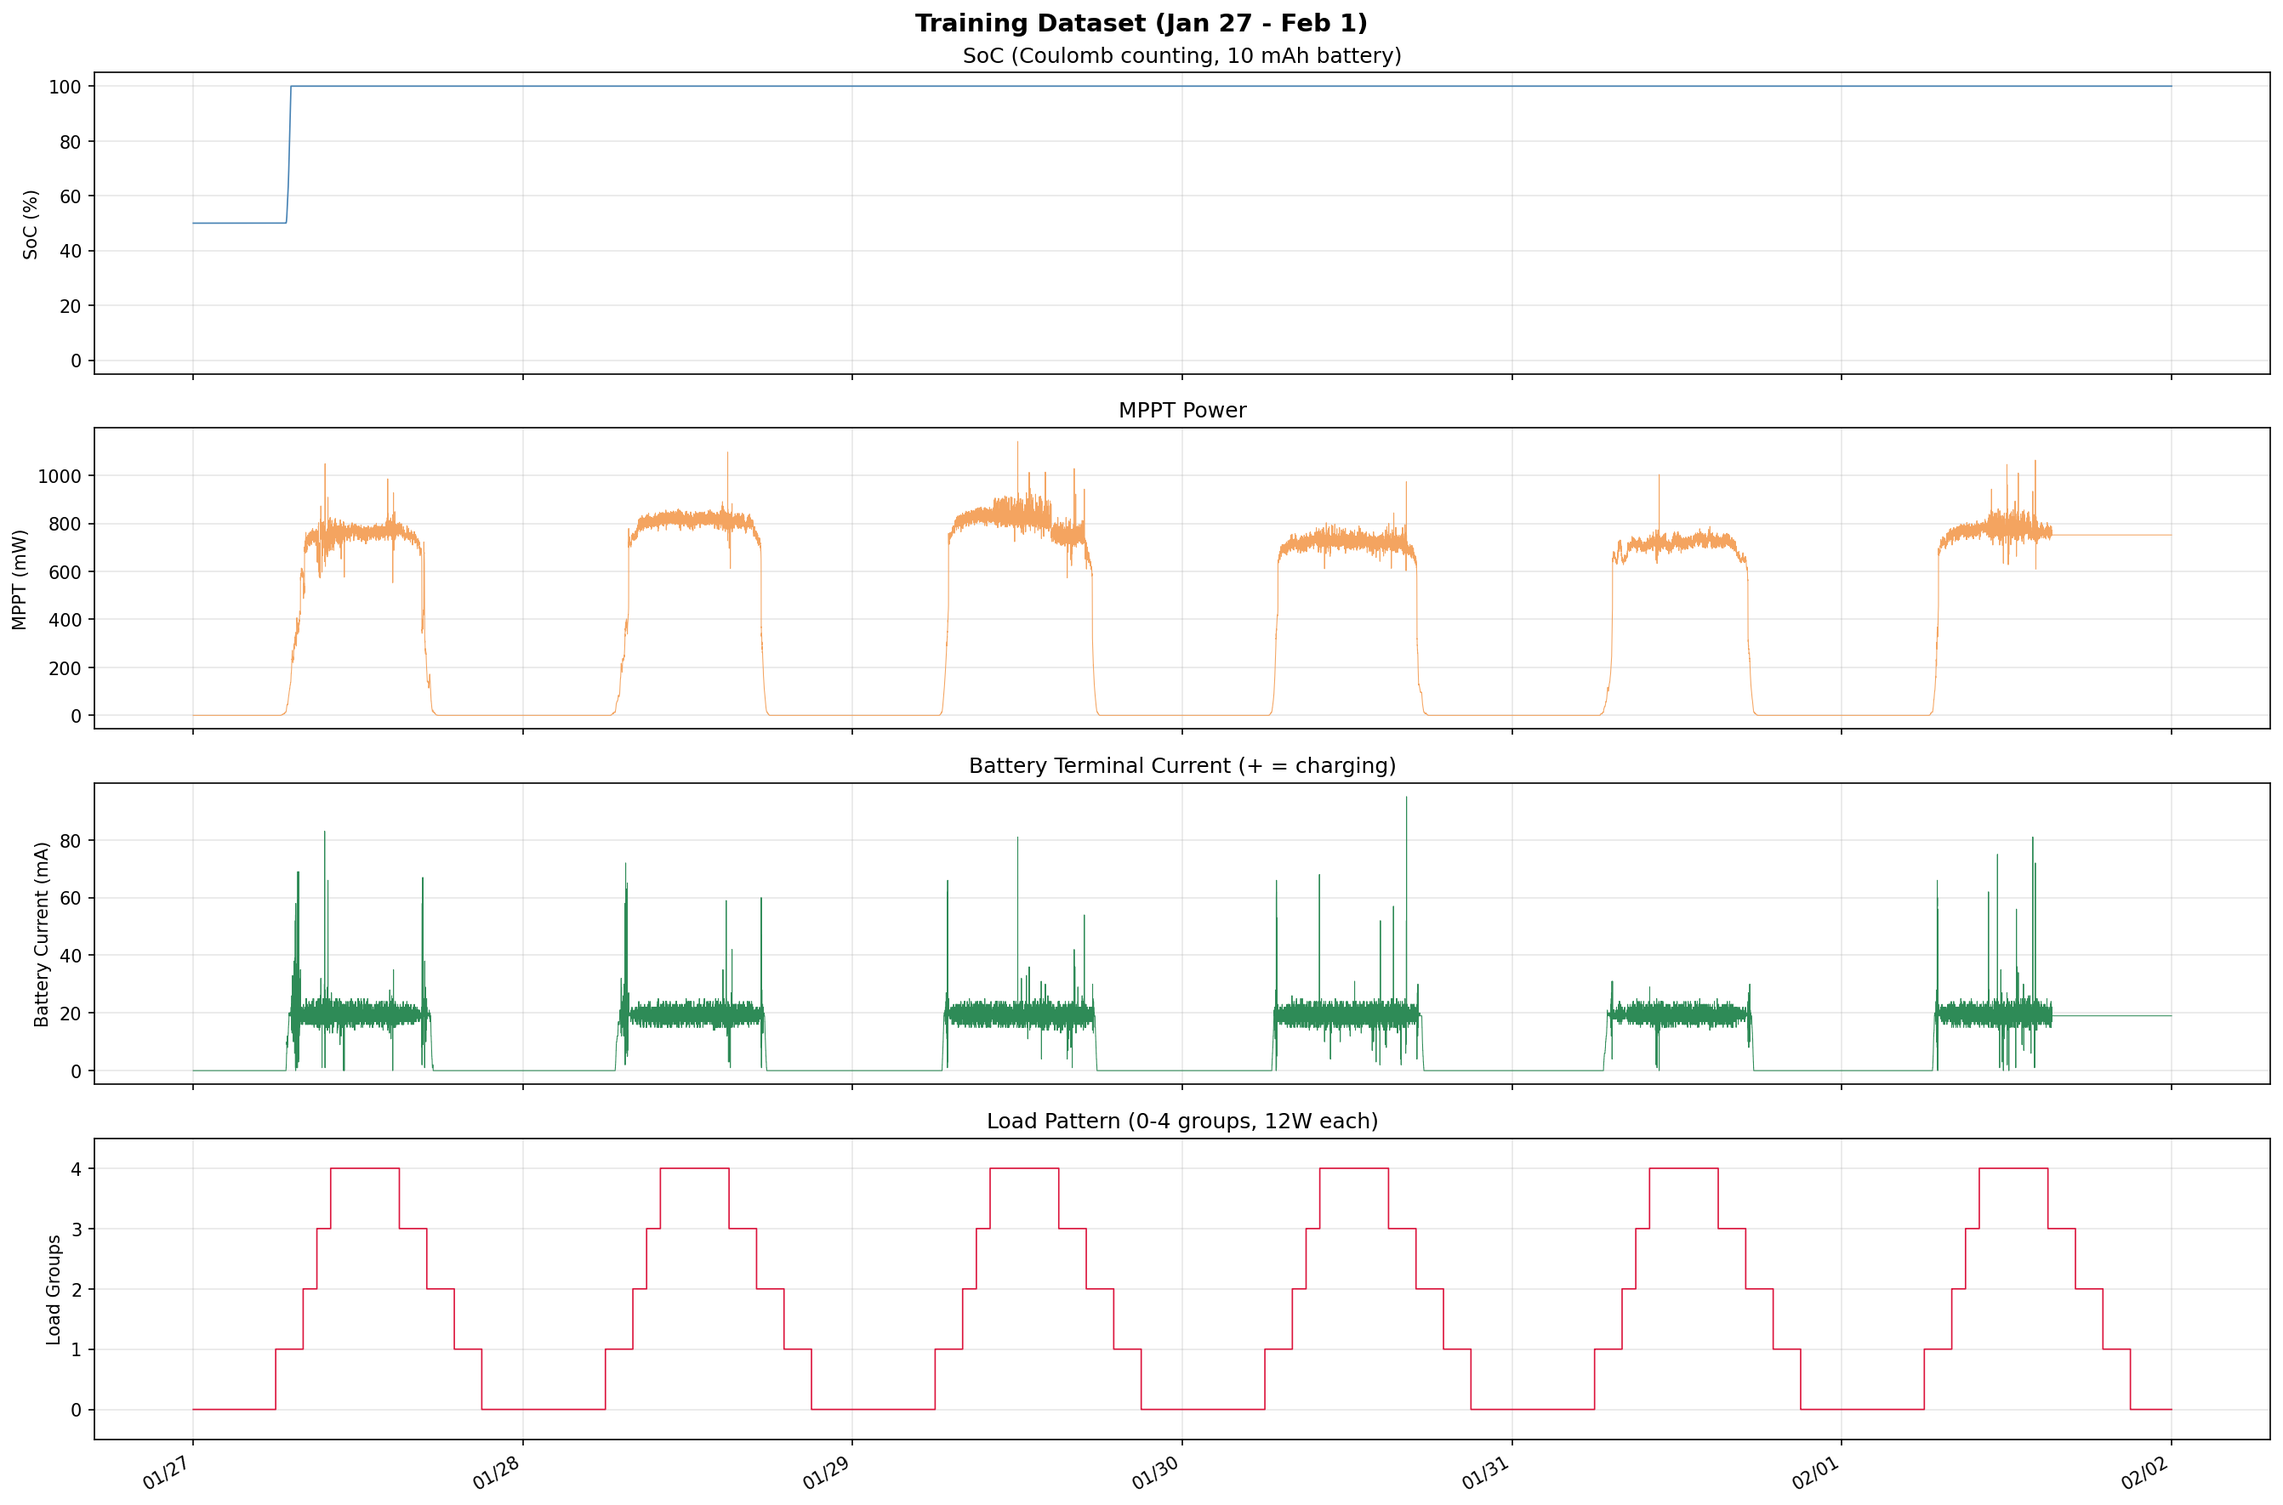
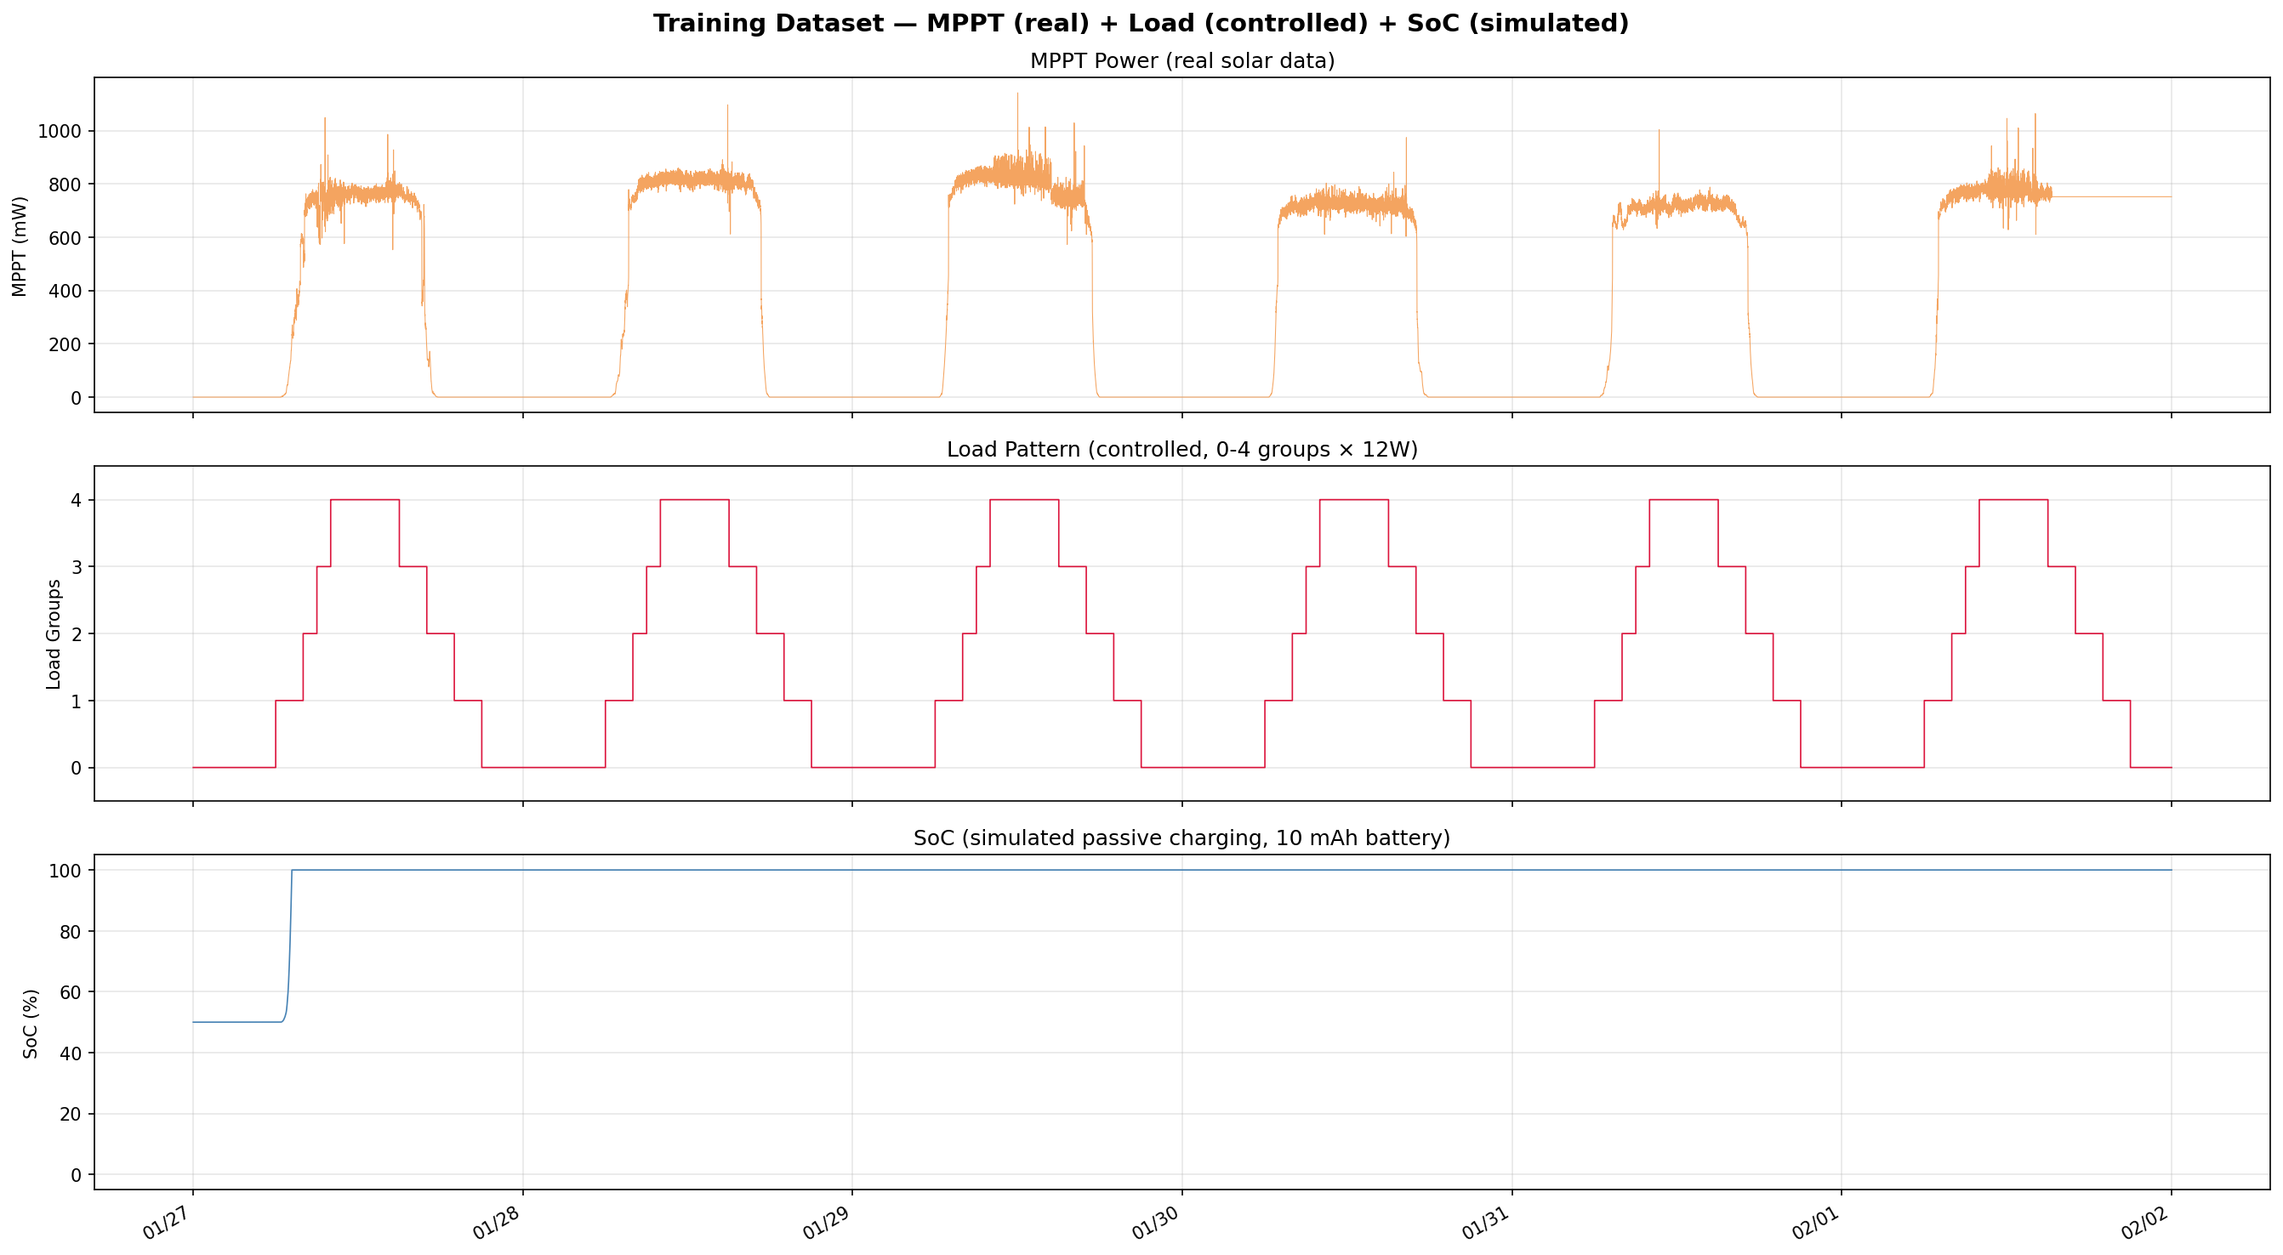
refactor: dataset only uses MPPT/solar from CSV, battery is fully simulated
- Removed dependency on CSV battery columns (current_a, voltage_v, soc_percent)
  as those belong to a different battery spec
- SoC computed via simulation (passive MPPT charging model), not from CSV current
- Clarified: MPPT = real data, Load = controlled, Battery/SoC/SoH = simulated
- Added flow_rate documentation in p302_real_hw.py (control variable, 0-100%)
- Cleaned up plots to show 3 panels: MPPT(real) + Load(controlled) + SoC(sim)

diff --git a/data/scripts/build_training_dataset.py b/data/scripts/build_training_dataset.py
@@ -1,22 +1,25 @@
 """
 build_training_dataset.py
 =========================
-從 data/raw/ 選取最佳 7 天資料，加上：
-  1. SoC 庫倫計數估算（10 mAh, 20 mA, 8.5V/5.6V）
-  2. 負載模式注入（4 組 × 12W @5V）
-  3. 15 分鐘聚合
-  4. 輸出完整 training CSV
+從 data/raw/ 選取最佳連續天的 MPPT/Solar 資料，加上：
+  1. 負載模式注入（4 組 × 12W @5V，由我們控制）
+  2. 15 分鐘聚合
 
-電池規格（Zinc-Air Battery Lab Scale）：
+重要：
+  ・CSV 中只取 MPPT（太陽能）數據 — 這是真實的可再生能源時間序列
+  ・CSV 中的電池欄位（soc_percent, voltage_v, current_a）為不同規格的電池，不使用
+  ・SoC / SoH / Flow Rate 全由模擬計算，不依賴 CSV 電池數據
+  ・負載由我們透過 load_pattern 控制（0-4 組 × 12W）
+
+電池規格（目標鋅空氣電池，模擬用）：
   - 額定容量      : 10 mAh
   - 充電電流      : 20 mA
   - 充電電壓      : 8.5 V
   - 放電電壓      : 5.6 V
-  - 充放電功率    : 充 0.17 W / 放 0.112 W
 
-負載規格：
-  - 4 組電子負載，每組 12W @5V（2.4A per group）
-  - 依時段開 0~4 組
+RL 控制輸出：
+  - 功率 (power_mW)     : 充放電功率
+  - 流速 (flow_percent) : 電解液流速（0-100%）
 
 輸出 → data/processed/training_7day_15min.csv
 """
@@ -104,12 +107,12 @@ def normalize_columns(df: pd.DataFrame) -> pd.DataFrame:
 # ═══════════════════════════════════════════════════════════════
 def load_and_select(raw_dir: Path) -> pd.DataFrame:
     """
-    載入 raw CSV 並選取電池活躍 + 完整度高的日期。
+    載入 raw CSV，只看 MPPT/Solar 品質選日期（忽略電池欄位）。
 
     選取條件：
       1. 完整度 ≥ 90%（約 24h 連續紀錄）
-      2. 電池實際充電（白天 current_a > 5 mA）
-      3. 優先選 Jan 27–Feb 1（6 天連續有效資料）
+      2. 白天 MPPT 有明確訊號（mppt_p 非全零）
+      3. 取最佳連續天
     """
     files = sorted(raw_dir.glob('collected_data_*.csv'))
     daily = {}
@@ -123,32 +126,52 @@ def load_and_select(raw_dir: Path) -> pd.DataFrame:
             expected = 24 * 3600 / dt_med
             completeness = min(len(df) / expected, 1.0)
             dur_h = (df['timestamp'].max() - df['timestamp'].min()).total_seconds() / 3600
-            # 白天電池電流判斷
+            # 白天 MPPT 品質
             mask_d = (df['timestamp'].dt.hour >= 8) & (df['timestamp'].dt.hour <= 16)
-            day_current = df.loc[mask_d, 'current_a'].mean() if mask_d.sum() > 0 else 0.0
+            mppt_day_mean = df.loc[mask_d, 'mppt_p'].mean() if mask_d.sum() > 0 else 0.0
+            mppt_day_max  = df.loc[mask_d, 'mppt_p'].max()  if mask_d.sum() > 0 else 0.0
             daily[date] = {
                 'file': f, 'df': df, 'n_rows': len(df),
                 'completeness': completeness, 'duration_h': dur_h,
-                'day_current_a': day_current,
+                'mppt_day_mean_W': mppt_day_mean,
+                'mppt_day_max_W': mppt_day_max,
             }
-            batt = 'YES' if day_current > 0.005 else 'no'
+            mppt_ok = 'OK' if mppt_day_mean > 0.01 else 'low'
             print(f"  {f.name:45s}  {len(df):>5d} rows  {dur_h:5.1f}h  "
-                  f"完整度 {completeness*100:5.1f}%  batt:{batt}({day_current*1000:.1f}mA)")
+                  f"完整度 {completeness*100:5.1f}%  MPPT:{mppt_ok}({mppt_day_mean*1000:.0f}mW)")
         except Exception as e:
             print(f"  ERR {f.name}: {e}")
 
-    # 選取 Jan 27 – Feb 1（6 天連續、電池活躍、完整度 > 95%）
-    from datetime import date as ddate
-    target_dates = [
-        ddate(2026, 1, 27), ddate(2026, 1, 28), ddate(2026, 1, 29),
-        ddate(2026, 1, 30), ddate(2026, 1, 31), ddate(2026, 2, 1),
-    ]
-    selected = [d for d in target_dates if d in daily]
-    print(f"\n  選定 {len(selected)} 天（Jan 27–Feb 1，電池活躍）：")
+    # 找出所有完整度 >= 90% 且 MPPT 有訊號的日期
+    from datetime import date as ddate, timedelta
+    good_dates = sorted([d for d, v in daily.items()
+                         if v['completeness'] >= 0.90 and v['mppt_day_mean_W'] > 0.01])
+    print(f"\n  品質合格日期（完整度≥90% & MPPT>10mW）：{good_dates}")
+
+    # 找最長連續段
+    if good_dates:
+        best_run = [good_dates[0]]
+        current_run = [good_dates[0]]
+        for i in range(1, len(good_dates)):
+            if (good_dates[i] - good_dates[i-1]).days == 1:
+                current_run.append(good_dates[i])
+            else:
+                if len(current_run) > len(best_run):
+                    best_run = current_run
+                current_run = [good_dates[i]]
+        if len(current_run) > len(best_run):
+            best_run = current_run
+        selected = best_run
+    else:
+        # fallback: 取完整度最高的 6 天
+        ranked = sorted(daily.items(), key=lambda x: x[1]['completeness'], reverse=True)
+        selected = sorted([d for d, _ in ranked[:6]])
+
+    print(f"\n  選定 {len(selected)} 天（最長連續段）：")
     for d in selected:
         v = daily[d]
         print(f"    {d}  完整度 {v['completeness']*100:5.1f}%  "
-              f"batt_current {v['day_current_a']*1000:.1f}mA")
+              f"MPPT day avg {v['mppt_day_mean_W']*1000:.0f}mW  max {v['mppt_day_max_W']*1000:.0f}mW")
 
     frames = [daily[d]['df'] for d in selected]
     df_all = pd.concat(frames, ignore_index=True).sort_values('timestamp').reset_index(drop=True)
@@ -159,44 +182,45 @@ def load_and_select(raw_dir: Path) -> pd.DataFrame:
 # ═══════════════════════════════════════════════════════════════
 # SoC 庫倫計數
 # ═══════════════════════════════════════════════════════════════
-def compute_soc_coulomb(df: pd.DataFrame) -> np.ndarray:
+def simulate_soc(df: pd.DataFrame) -> np.ndarray:
     """
-    從 current_a（電池端實際電流）做庫倫計數推算 SoC。
+    模擬 SoC：基於 MPPT 功率和負載功率的能量平衡。
 
-    根據實測：
-      - 白天 current_a ≈ +19~20 mA（充電，符合額定 20 mA）
-      - 夜間 current_a ≈ 0（閒置）
-      - 負載不直接從電池放電（另有供電路徑）
+    邏輯（簡化模擬，非 CSV 電池數據）：
+      - 充電功率 = min(mppt_p, 額定充電功率 0.17W)
+      - 放電功率 = 0（目前無真實放電控制，由 RL agent 決定）
+      - 淨充電能量 = (P_charge × dt) × efficiency / capacity
 
-    SoC(t+1) = SoC(t) + (current_a × dt) / Capacity
-    正值 = 充電，負值 = 放電
+    注意：真實 SoC 計算會由 RL env 內部處理。
+    此處只提供「被動充電」的 SoC 參考序列作為 dataset 欄位。
     """
-    cap_ah = BATTERY_CAPACITY_MAH / 1000.0  # 0.01 Ah
+    cap_wh = BATTERY_CAPACITY_WH  # ≈ 0.0705 Wh
+    max_charge_w = BATTERY_CHARGE_I_MA * BATTERY_CHARGE_V / 1000  # 0.17 W
+    efficiency = 0.85
 
     soc = np.zeros(len(df), dtype=float)
-    soc[0] = 0.5  # 初始 SoC = 50%
+    soc[0] = 0.5  # 初始 50%
 
     timestamps = df['timestamp'].values
-    current = df['current_a'].fillna(0.0).values  # 電池端電流 (A)
+    mppt_p = df['mppt_p'].fillna(0.0).values  # MPPT 功率 (W)
 
     for i in range(1, len(df)):
         dt_sec = (timestamps[i] - timestamps[i-1]) / np.timedelta64(1, 's')
         if dt_sec <= 0 or dt_sec > 600:
-            # 時間倒退或大缺口（>10min），維持前一步 SoC
             soc[i] = soc[i-1]
             continue
 
         dt_h = dt_sec / 3600.0
 
-        # 電池端淨電流（正=充電，負=放電）
-        i_net_a = float(current[i])
+        # 充電功率 = MPPT 輸出，限於額定充電功率
+        p_charge_w = min(float(mppt_p[i]), max_charge_w)
+        p_charge_w = max(p_charge_w, 0.0)
 
-        # 庫倫計數
-        delta_soc = (i_net_a * dt_h) / cap_ah
-        new_soc = soc[i-1] + delta_soc
+        # 能量平衡（純充電，放電由 RL 決定）
+        delta_wh = p_charge_w * dt_h * efficiency
+        delta_soc = delta_wh / cap_wh if cap_wh > 0 else 0.0
 
-        # 限幅 [0, 1]
-        soc[i] = float(np.clip(new_soc, 0.0, 1.0))
+        soc[i] = float(np.clip(soc[i-1] + delta_soc, 0.0, 1.0))
 
     return soc
 
@@ -226,10 +250,9 @@ def aggregate_15min(df: pd.DataFrame) -> pd.DataFrame:
     # Solar
     agg['solar_p_mean_W'] = df['solar_p'].resample(rule).mean()
 
-    # Battery
-    agg['voltage_mean_V'] = df['voltage_v'].resample(rule).mean()
-    agg['current_mean_A'] = df['current_a'].resample(rule).mean()
-    agg['temp_mean_c']    = df['temp_c'].resample(rule).mean()
+    # 溫度（若有值才取）
+    if 'temp_c' in df.columns and df['temp_c'].notna().any():
+        agg['temp_mean_c'] = df['temp_c'].resample(rule).mean()
 
     # SoC（庫倫計數估算）
     agg['soc_mean']       = df['soc_estimated'].resample(rule).mean()
@@ -299,9 +322,9 @@ def main():
     for n, cnt in load_summary.items():
         print(f"    {int(n)} 組 ({int(n)*12}W)：{cnt:,} 筆")
 
-    # 3. SoC 庫倫計數
-    print("\n[3/4] SoC 庫倫計數估算...")
-    df['soc_estimated'] = compute_soc_coulomb(df)
+    # 3. SoC 模擬（被動充電）
+    print("\n[3/4] SoC 模擬（MPPT→電池被動充電）...")
+    df['soc_estimated'] = simulate_soc(df)
     soc = df['soc_estimated']
     print(f"  SoC 範圍：{soc.min():.4f} ~ {soc.max():.4f}")
     print(f"  SoC 平均：{soc.mean():.4f}")
@@ -322,11 +345,10 @@ def main():
     df_agg.to_csv(out_path, index=False, encoding='utf-8-sig')
     print(f"\n  輸出 → {out_path}")
 
-    # 也輸出原始逐筆資料（含 SoC）供分析
+    # 也輸出原始逐筆資料供分析（只含 MPPT/Solar + 模擬欄位）
     raw_out = OUT_DIR / 'training_7day_raw.csv'
     keep = ['timestamp', 'mppt_p', 'mppt_v', 'mppt_i', 'solar_p',
-            'voltage_v', 'current_a', 'temp_c', 'load_groups', 'load_W',
-            'soc_estimated']
+            'load_groups', 'load_W', 'soc_estimated']
     df[[c for c in keep if c in df.columns]].to_csv(raw_out, index=False, encoding='utf-8-sig')
     print(f"  原始資料 → {raw_out}")
 
@@ -373,33 +395,33 @@ def plot_training_summary(df_raw: pd.DataFrame, df_agg: pd.DataFrame):
     fig_dir.mkdir(parents=True, exist_ok=True)
 
     # ── 1. SoC + MPPT + Load 時間序列 ──
-    fig, axes = plt.subplots(4, 1, figsize=(18, 12), sharex=True)
-    fig.suptitle('Training Dataset (Jan 27 - Feb 1)', fontsize=14, fontweight='bold')
+    fig, axes = plt.subplots(3, 1, figsize=(18, 10), sharex=True)
+    dates = df_raw.index if isinstance(df_raw.index, pd.DatetimeIndex) else pd.to_datetime(df_raw['timestamp'])
+    fig.suptitle('Training Dataset — MPPT (real) + Load (controlled) + SoC (simulated)',
+                 fontsize=14, fontweight='bold')
 
-    ax0, ax1, ax2, ax3 = axes
+    ax0, ax1, ax2 = axes
 
-    ax0.plot(df_raw['timestamp'], df_raw['soc_estimated'] * 100, color='#4682B4', linewidth=0.8)
-    ax0.set_ylabel('SoC (%)')
-    ax0.set_ylim(-5, 105)
+    # MPPT（真實太陽能資料）
+    ax0.plot(df_raw['timestamp'], df_raw['mppt_p'] * 1000, color='#F4A460', linewidth=0.5)
+    ax0.set_ylabel('MPPT (mW)')
     ax0.grid(alpha=0.3)
-    ax0.set_title('SoC (Coulomb counting, 10 mAh battery)')
+    ax0.set_title('MPPT Power (real solar data)')
 
-    ax1.plot(df_raw['timestamp'], df_raw['mppt_p'] * 1000, color='#F4A460', linewidth=0.5)
-    ax1.set_ylabel('MPPT (mW)')
+    # 負載模式（由我們控制）
+    ax1.step(df_raw['timestamp'], df_raw['load_groups'], color='#DC143C', linewidth=0.8, where='post')
+    ax1.set_ylabel('Load Groups')
+    ax1.set_ylim(-0.5, 4.5)
+    ax1.set_yticks([0, 1, 2, 3, 4])
     ax1.grid(alpha=0.3)
-    ax1.set_title('MPPT Power')
+    ax1.set_title('Load Pattern (controlled, 0-4 groups × 12W)')
 
-    ax2.plot(df_raw['timestamp'], df_raw['current_a'] * 1000, color='#2E8B57', linewidth=0.5)
-    ax2.set_ylabel('Battery Current (mA)')
+    # SoC（被動充電模擬）
+    ax2.plot(df_raw['timestamp'], df_raw['soc_estimated'] * 100, color='#4682B4', linewidth=0.8)
+    ax2.set_ylabel('SoC (%)')
+    ax2.set_ylim(-5, 105)
     ax2.grid(alpha=0.3)
-    ax2.set_title('Battery Terminal Current (+ = charging)')
-
-    ax3.step(df_raw['timestamp'], df_raw['load_groups'], color='#DC143C', linewidth=0.8, where='post')
-    ax3.set_ylabel('Load Groups')
-    ax3.set_ylim(-0.5, 4.5)
-    ax3.set_yticks([0, 1, 2, 3, 4])
-    ax3.grid(alpha=0.3)
-    ax3.set_title('Load Pattern (0-4 groups, 12W each)')
+    ax2.set_title('SoC (simulated passive charging, 10 mAh battery)')
 
     axes[-1].xaxis.set_major_formatter(mdates.DateFormatter('%m/%d'))
     axes[-1].xaxis.set_major_locator(mdates.DayLocator())

diff --git a/configs/p302_real_hw.py b/configs/p302_real_hw.py
@@ -9,10 +9,19 @@ P302 真實硬體配置
   ・電子負載  : 4 組 × 12W @5V (最大 48W)
   ・採樣間隔  : ~11 秒 → 聚合為 15 分鐘窗格
 
-注意：
-  ・負載(48W)遠大於電池容量(0.07Wh)和MPPT(~1W)，
-    負載不直接由電池供電，而是獨立供電路徑。
-  ・RL agent 控制電池充放電，負載為需求context。
+資料來源：
+  ・MPPT/Solar → 真實太陽能時間序列（from data/raw/）
+  ・負載       → 由我們透過 load_pattern 控制（0-4 組）
+  ・電池 SoC   → 模擬計算（CSV 中的電池規格不同，不使用）
+  ・SoH        → 未來整合 SoH prediction 模型（用充電段預測）
+  ・其餘       → 全由模擬運算
+
+RL 控制輸出（對應 Command.txt 格式 PP,功率(mW),流速,）：
+  ・功率 (power_mW)     : 電池充放電功率，0~170 mW
+  ・流速 (flow_percent) : 電解液流速 0~100%
+    - 目前映射：flow% = (power / max_power) × 100%
+    - 流速影響電化學反應速率 → 充放電效率 / 容量 / 壽命
+    - TODO: 建立更精確的 flow-performance 關係模型
 """
 
 import os
